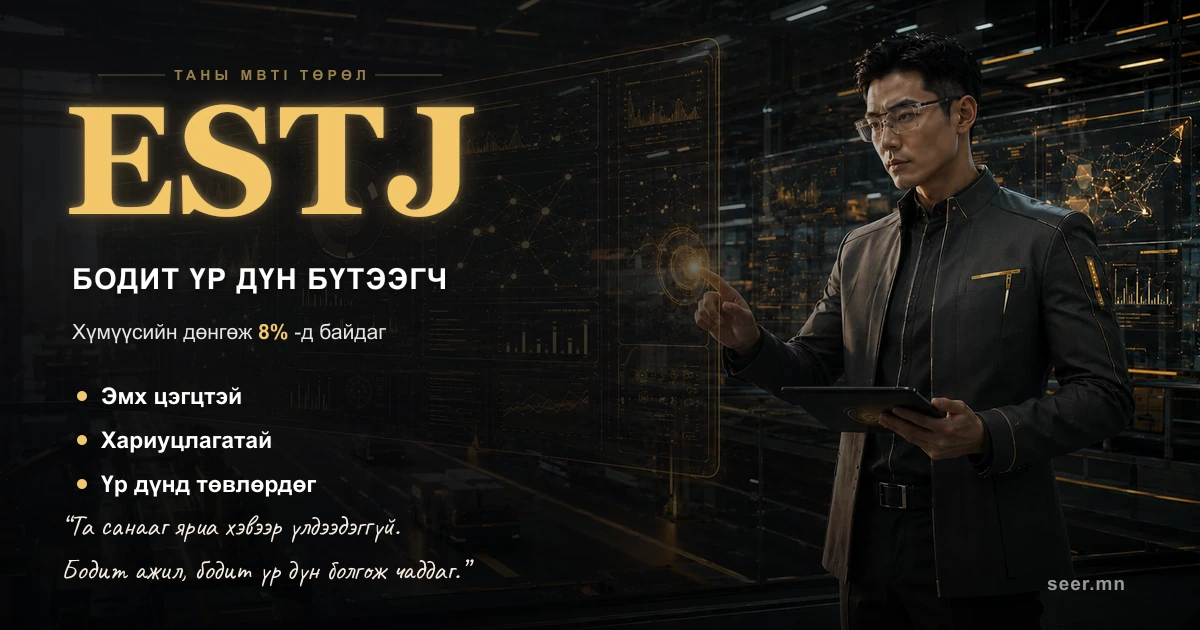
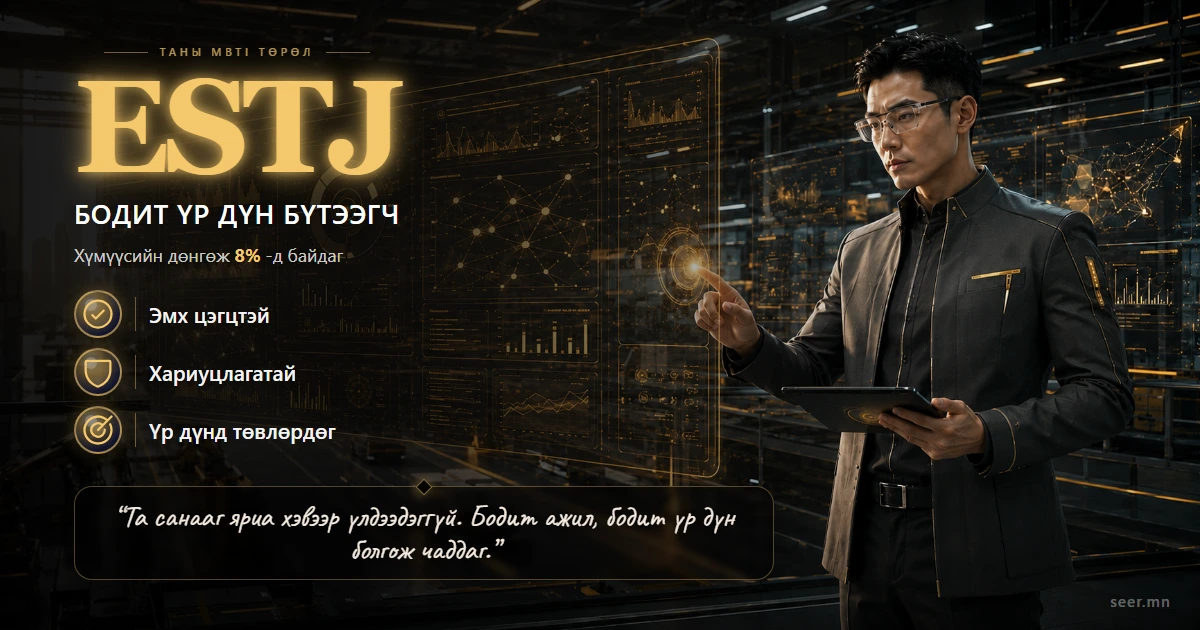
generate new ESTJ og image

diff --git a/scripts/export-mbti-og.ts b/scripts/export-mbti-og.ts
@@ -1,0 +1,65 @@
+import { chromium } from "playwright";
+import sharp from "sharp";
+import path from "path";
+import fs from "fs/promises";
+
+async function main() {
+  const browser = await chromium.launch();
+
+  const page = await browser.newPage({
+    viewport: {
+      width: 1400,
+      height: 900,
+    },
+    deviceScaleFactor: 1,
+  });
+
+  await page.goto("http://localhost:3000/internal/og-preview/mbti/male/estj", {
+    waitUntil: "networkidle",
+  });
+
+  await page.evaluate(() => document.fonts.ready);
+
+  const card = page.locator("#mbti-og-card");
+
+  const tempPath = path.join(
+    process.cwd(),
+    "public",
+    "share",
+    "mbti-og-card",
+    "male",
+    "estj-temp.png",
+  );
+
+  const outputPath = path.join(
+    process.cwd(),
+    "public",
+    "share",
+    "mbti-og-card",
+    "male",
+    "estj.webp",
+  );
+
+  await card.screenshot({
+    path: tempPath,
+  });
+
+  await sharp(tempPath)
+    .resize(1200, 630)
+    .webp({
+      quality: 92,
+    })
+    .toFile(outputPath);
+
+  await fs.unlink(tempPath);
+
+  await browser.close();
+
+  console.log("✅ New ESTJ OG image generated");
+  console.log(outputPath);
+}
+
+main().catch((error) => {
+  console.error(error);
+  process.exit(1);
+});
